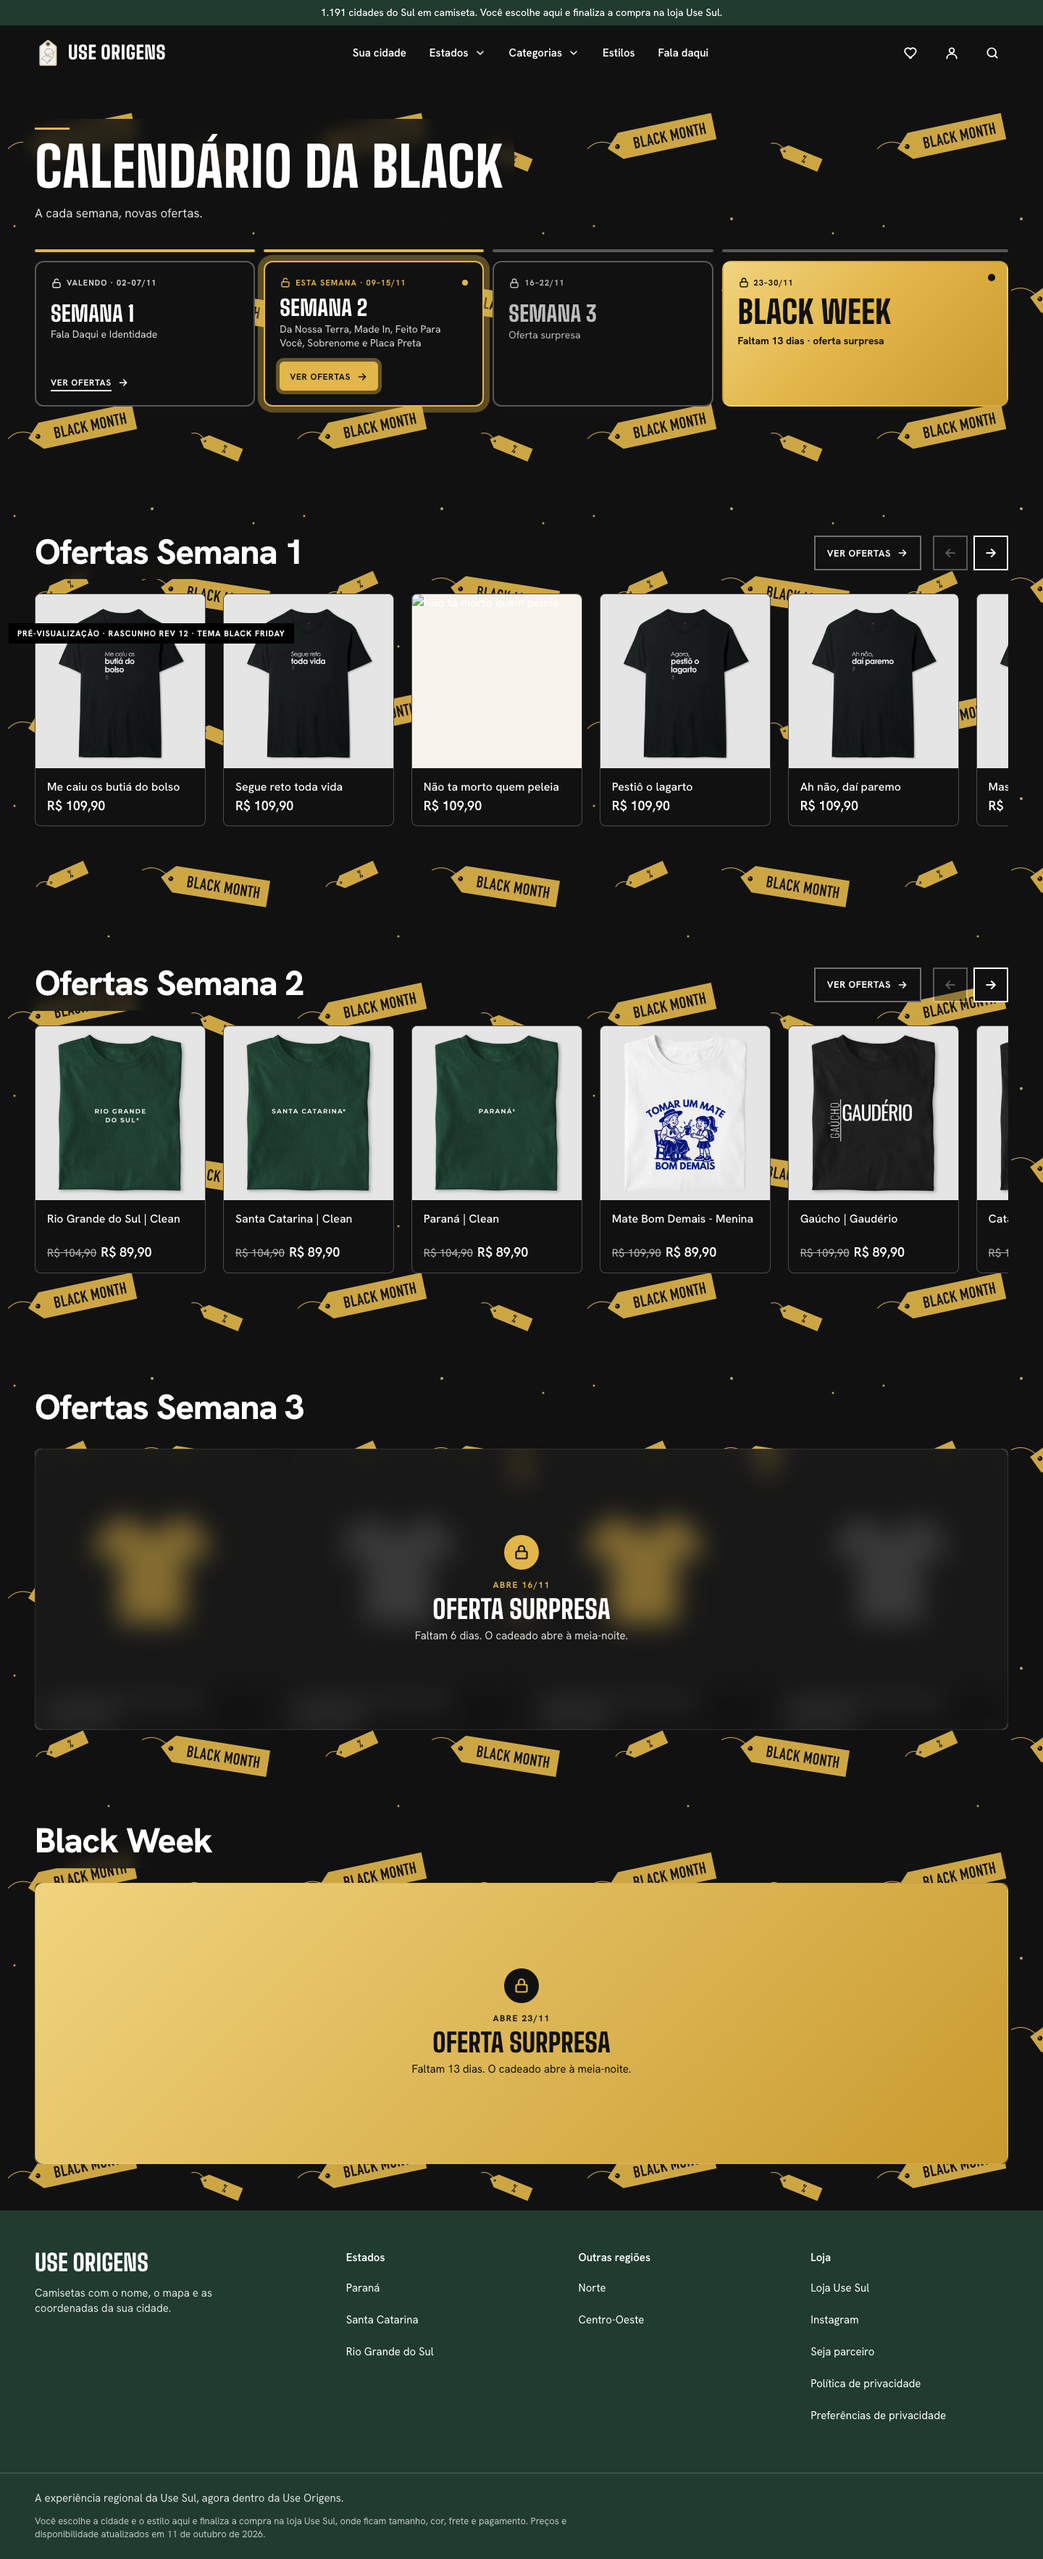
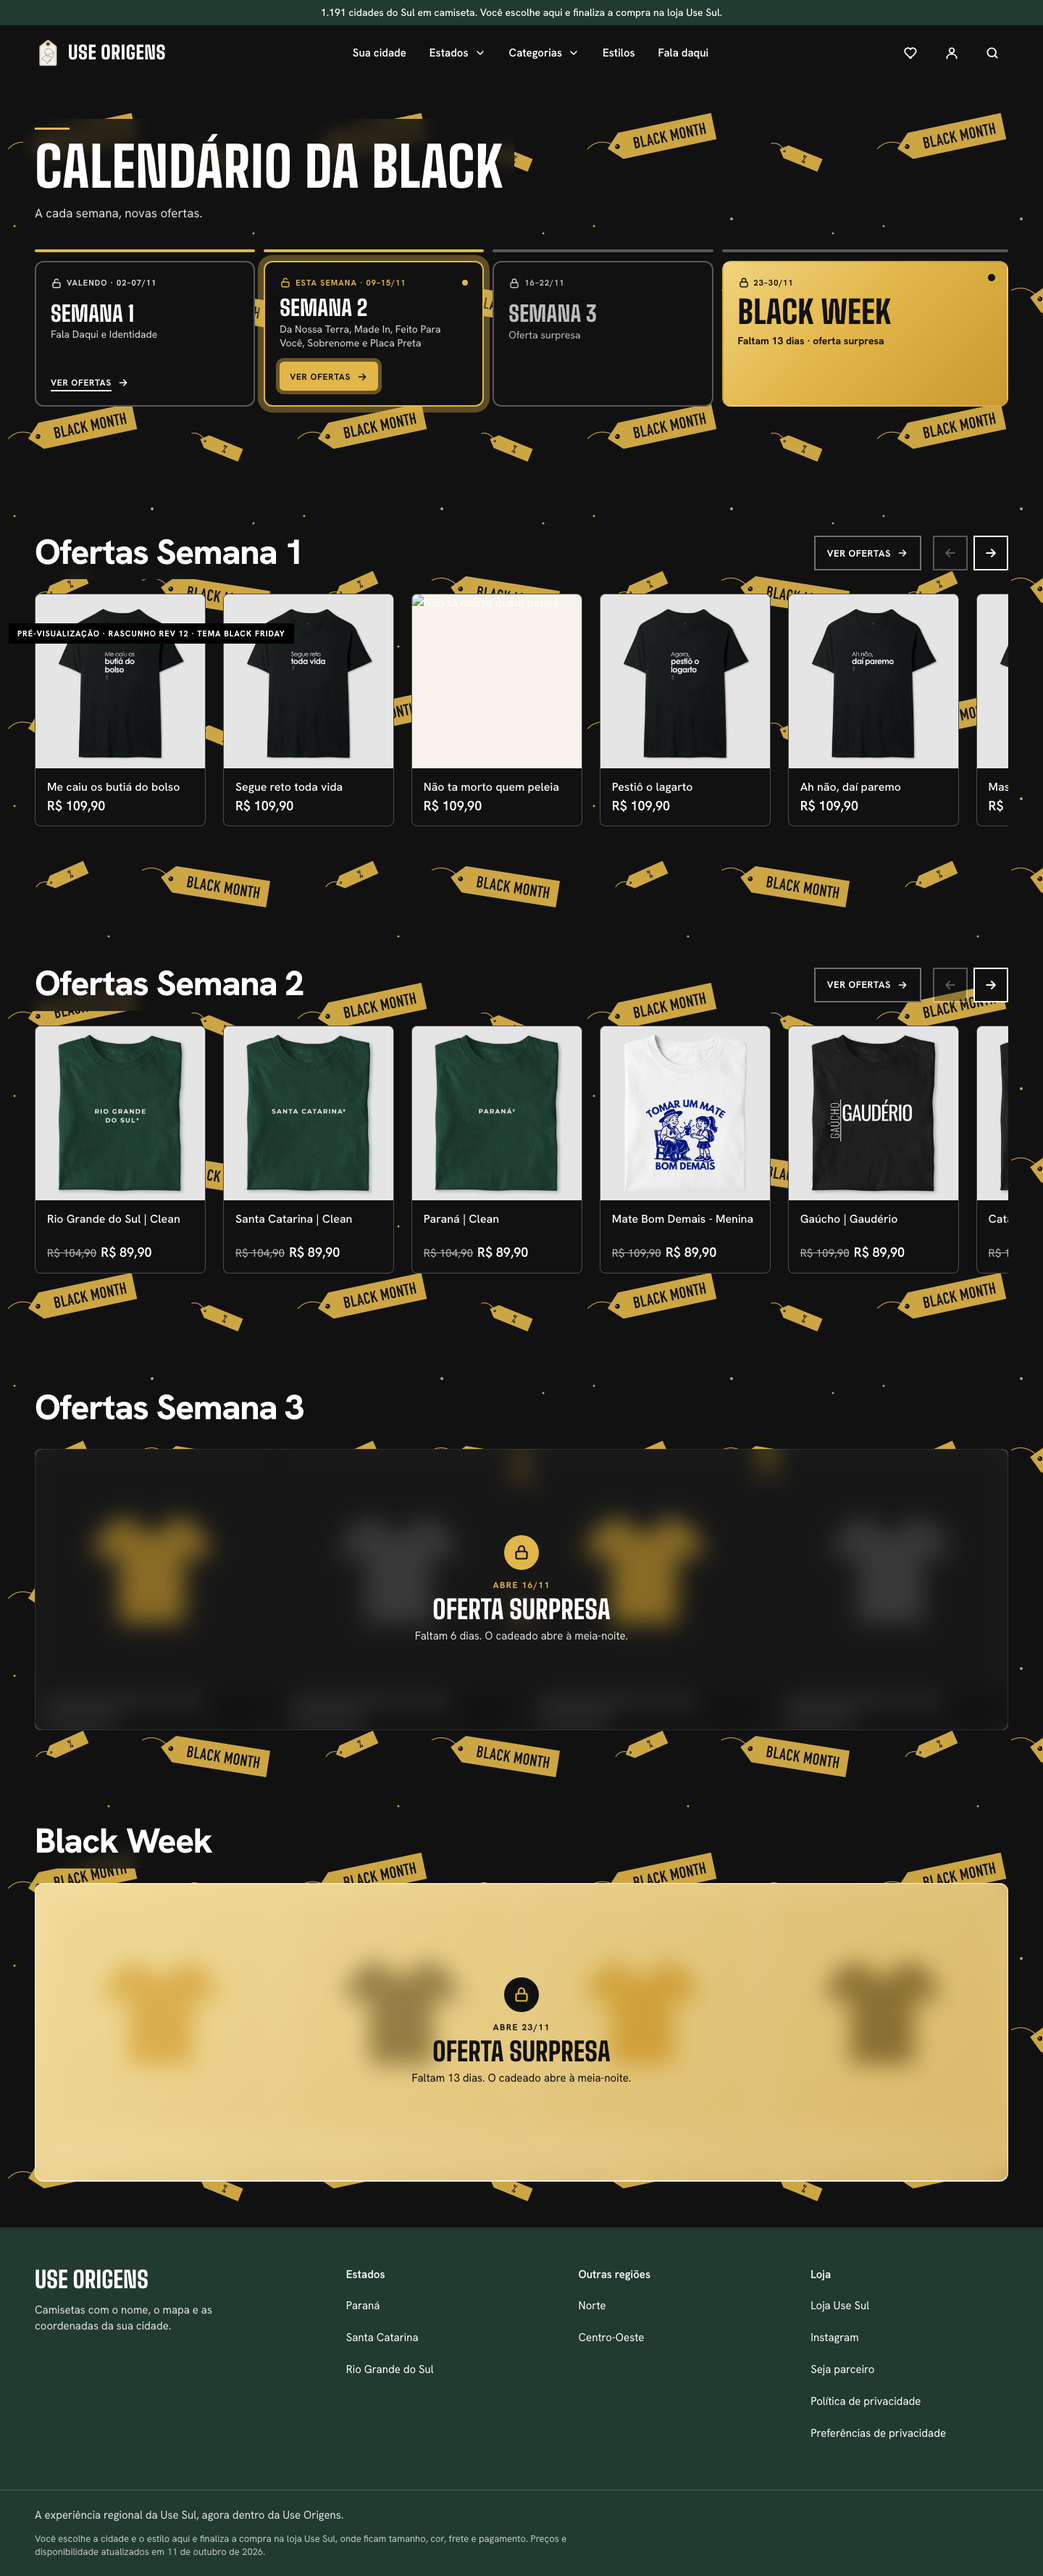
style(storefront): o dourado da Black Week fechada vira vidro (translúcido, com as silhuetas desfocadas)

diff --git a/src/components/home/LockedShelf.tsx b/src/components/home/LockedShelf.tsx
@@ -36,11 +36,12 @@ export function LockedShelf({ anchor, heading, subtitle, state, period, daysLeft
         {subtitle && <p className="t-body mt-2.5 max-w-[60ch] text-ink-soft">{subtitle}</p>}
       </div>
       <div className="relative">
-        {/* The shelf it will be: dark card shapes with a shirt each, gold and grey, that the glass turns into soft glows (nothing real, so nothing to unblur). */}
-        <ul aria-hidden="true" className="grid grid-cols-2 gap-3 md:grid-cols-4 lg:gap-4">
+        {/* The shelf it will be: card shapes with a shirt each that the glass turns into soft glows (nothing real, so nothing to unblur). Dark cards
+            with gold and grey shirts under the smoked glass; light cards with gold and black shirts under the gold one, so the gold stays bright. */}
+        <ul aria-hidden="true" className={`grid grid-cols-2 gap-3 md:grid-cols-4 lg:gap-4 ${accent ? "rounded-xl bg-[#f6eedb] p-3 lg:p-4" : ""}`}>
           {Array.from({ length: cards }, (_, i) => (
-            <li key={i} className={`overflow-hidden rounded-lg border border-[var(--line)] bg-[var(--card-fill)] ${i >= 2 ? "hidden md:block" : ""}`}>
-              <span className="flex aspect-[800/820] items-center justify-center bg-[#1c1c1c]" style={{ color: i % 2 ? "#5a5a5a" : HIGHLIGHT }}>
+            <li key={i} className={`overflow-hidden rounded-lg border ${accent ? "border-black/10 bg-[#f6eedb]" : "border-[var(--line)] bg-[var(--card-fill)]"} ${i >= 2 ? "hidden md:block" : ""}`}>
+              <span className="flex aspect-[800/820] items-center justify-center" style={accent ? { background: "#efe4c6", color: i % 2 ? "#1d1d1d" : "#b8862a" } : { background: "#1c1c1c", color: i % 2 ? "#5a5a5a" : HIGHLIGHT }}>
                 <Shirt />
               </span>
               <span className="block space-y-2 p-3">
@@ -50,13 +51,13 @@ export function LockedShelf({ anchor, heading, subtitle, state, period, daysLeft
             </li>
           ))}
         </ul>
-        {/* The glass: the ground's colour, translucent and blurred, over the whole shelf, with the lock in the middle. */}
+        {/* The glass, translucent and blurred over the whole shelf, with the lock in the middle: smoked (the ground's colour) or, with the section's
+            own colour, gold glass (that colour as a translucent layer over the blur, a light edge catching the light). */}
         <div
-          className={`absolute inset-0 flex items-center justify-center rounded-xl border p-5 text-center [-webkit-backdrop-filter:blur(18px)] [backdrop-filter:blur(18px)] ${accent ? "on-light border-transparent" : "border-white/10"}`}
-          style={accent ? { background: accent, color: "#111" } : { background: "color-mix(in srgb, var(--plate-solid, #111) 45%, transparent)" }}
+          className={`absolute inset-0 flex items-center justify-center overflow-hidden rounded-xl border p-5 text-center [-webkit-backdrop-filter:blur(16px)_saturate(1.2)] [backdrop-filter:blur(16px)_saturate(1.2)] ${accent ? "on-light border-white/50 shadow-[inset_0_1px_0_rgb(255_255_255/0.6)]" : "border-white/10"}`}
+          style={accent ? { color: "#111" } : { background: "color-mix(in srgb, var(--plate-solid, #111) 45%, transparent)" }}
         >
-          {/* On the accent, a soft veil keeps the shirts behind it barely visible, like frosted gold. */}
-          {accent && <span aria-hidden="true" className="pointer-events-none absolute inset-0 rounded-xl opacity-90" style={{ background: accent }} />}
+          {accent && <span aria-hidden="true" className="pointer-events-none absolute inset-0 opacity-60" style={{ background: accent }} />}
           <div className="relative max-w-sm">
             <span className="mx-auto mb-3 flex h-12 w-12 items-center justify-center rounded-full" style={accent ? { background: "#111", color: HIGHLIGHT } : locked ? { background: HIGHLIGHT, color: "#111" } : { border: "2px solid var(--line)" }}>
               <svg aria-hidden="true" viewBox="0 0 24 24" className="h-6 w-6" fill="none" stroke="currentColor" strokeWidth="2.2" strokeLinecap="round" strokeLinejoin="round">
